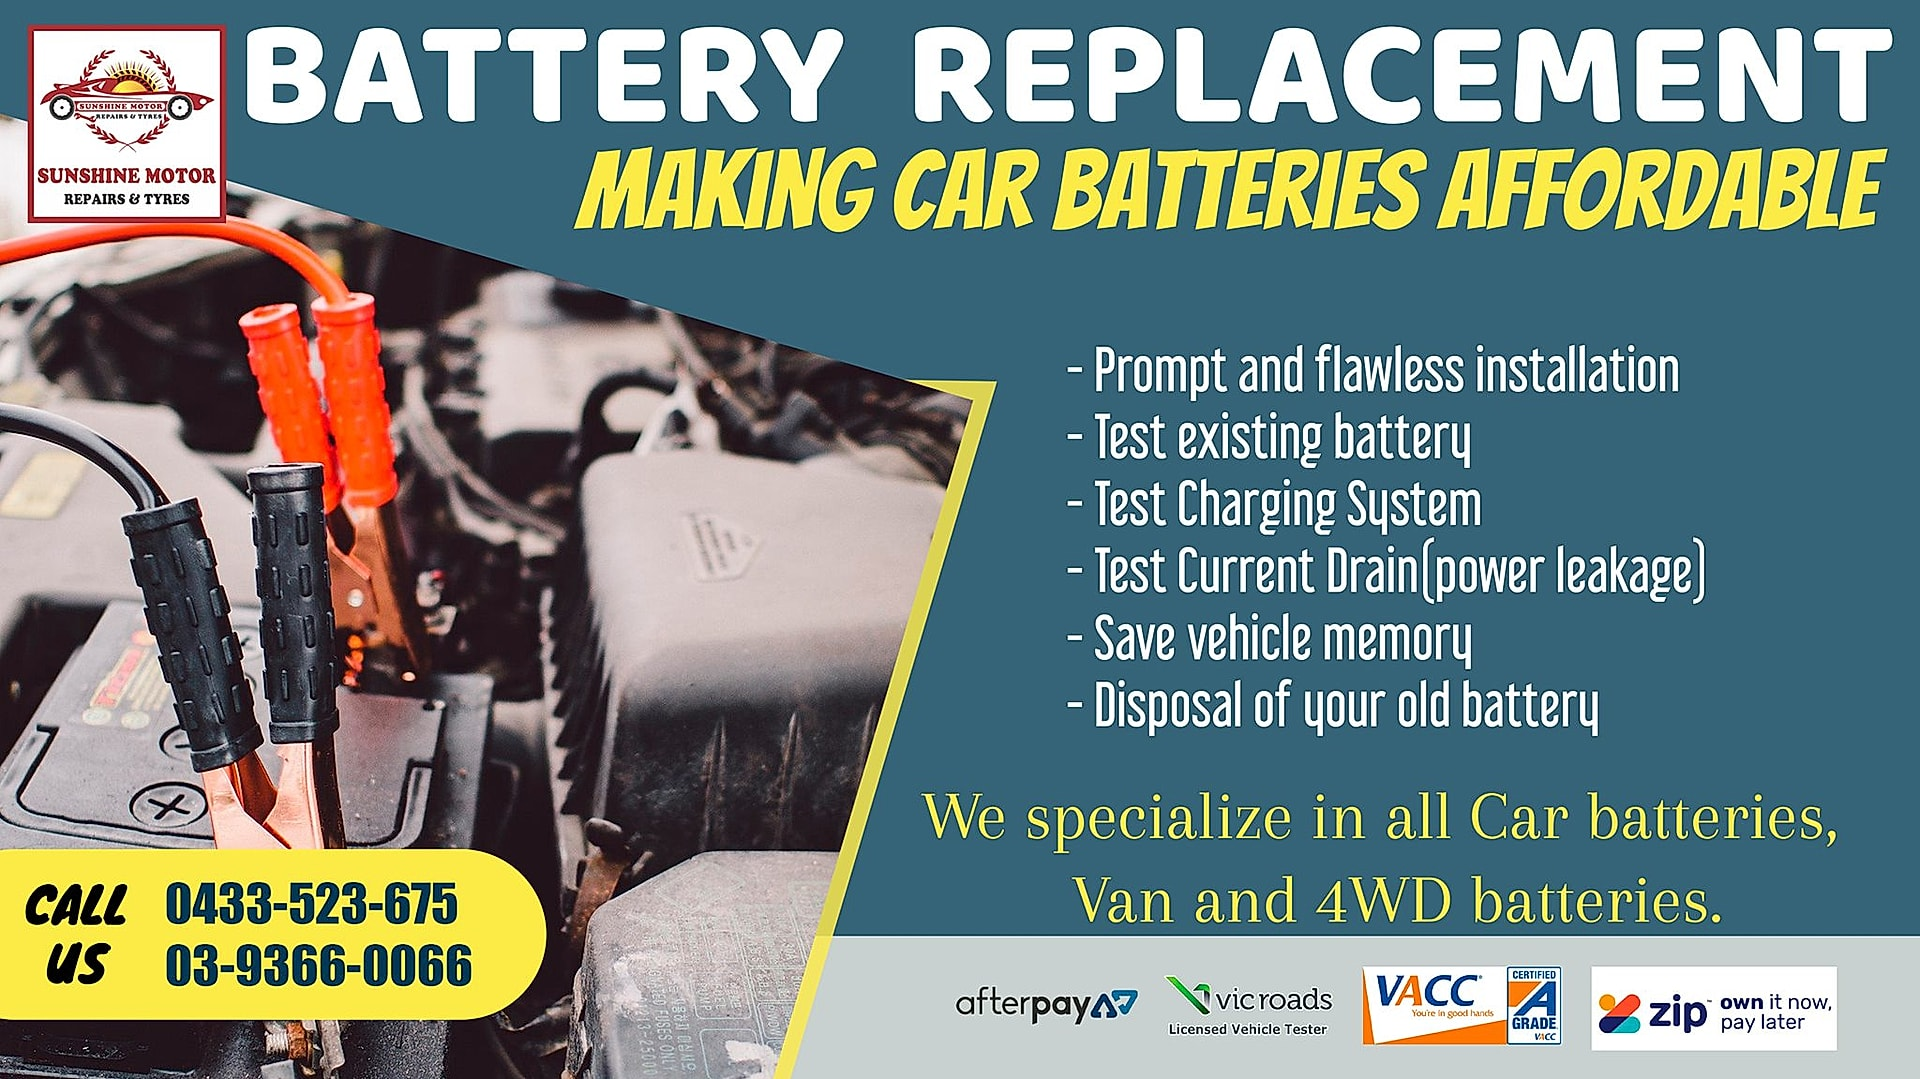
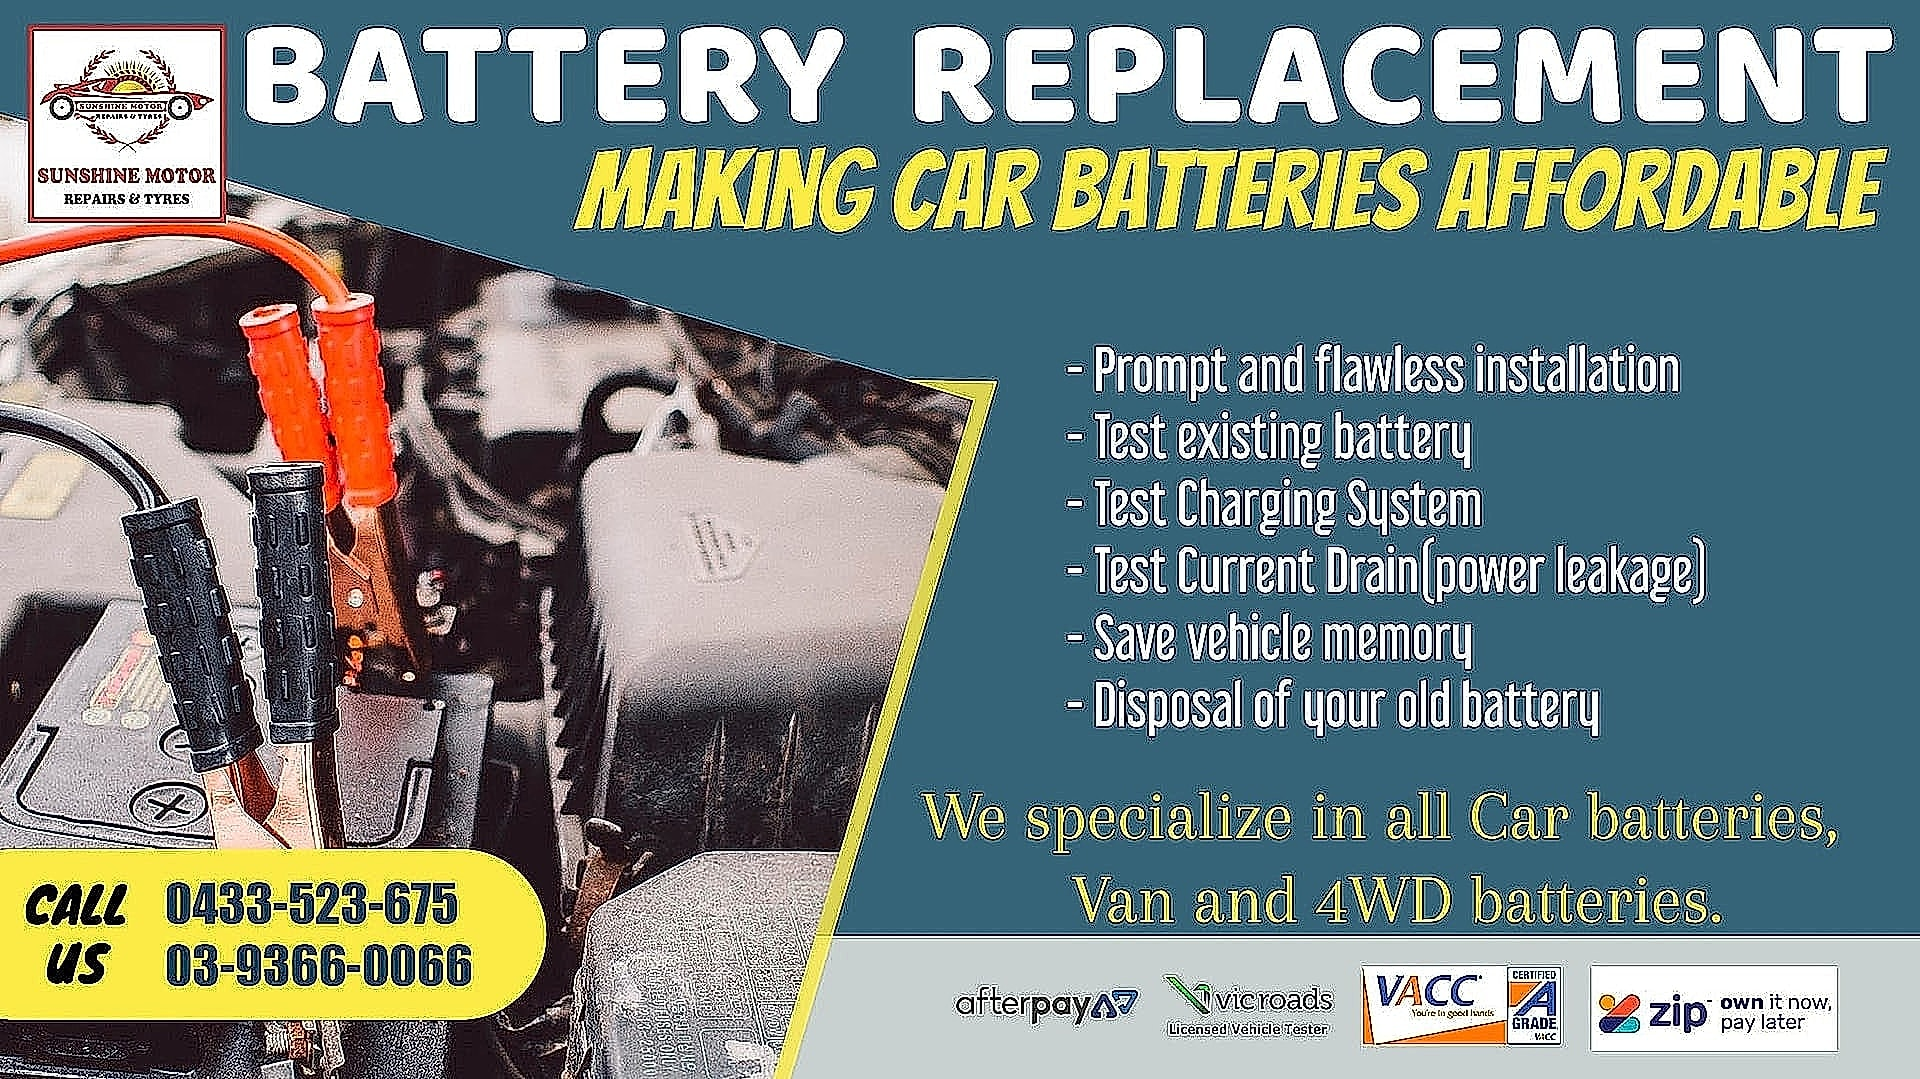
Update hero to higher-resolution Hero.png (1672x941)

Changed region(s): [[0.0, 0.0, 1.0, 1.0], [0.5625, 0.3058, 0.9062, 0.7034], [0.3438, 0.4893, 0.375, 0.5199]]

diff --git a/styles.css b/styles.css
@@ -265,7 +265,7 @@ section {
   align-items: center;
   position: relative;
   background: linear-gradient(rgba(0, 0, 0, 0.55), rgba(0, 0, 0, 0.55)),
-              url('images/hero.jpg') center/cover no-repeat;
+              url('images/Hero.png') center/cover no-repeat;
   padding: 8rem 0 4rem;
 }
 
